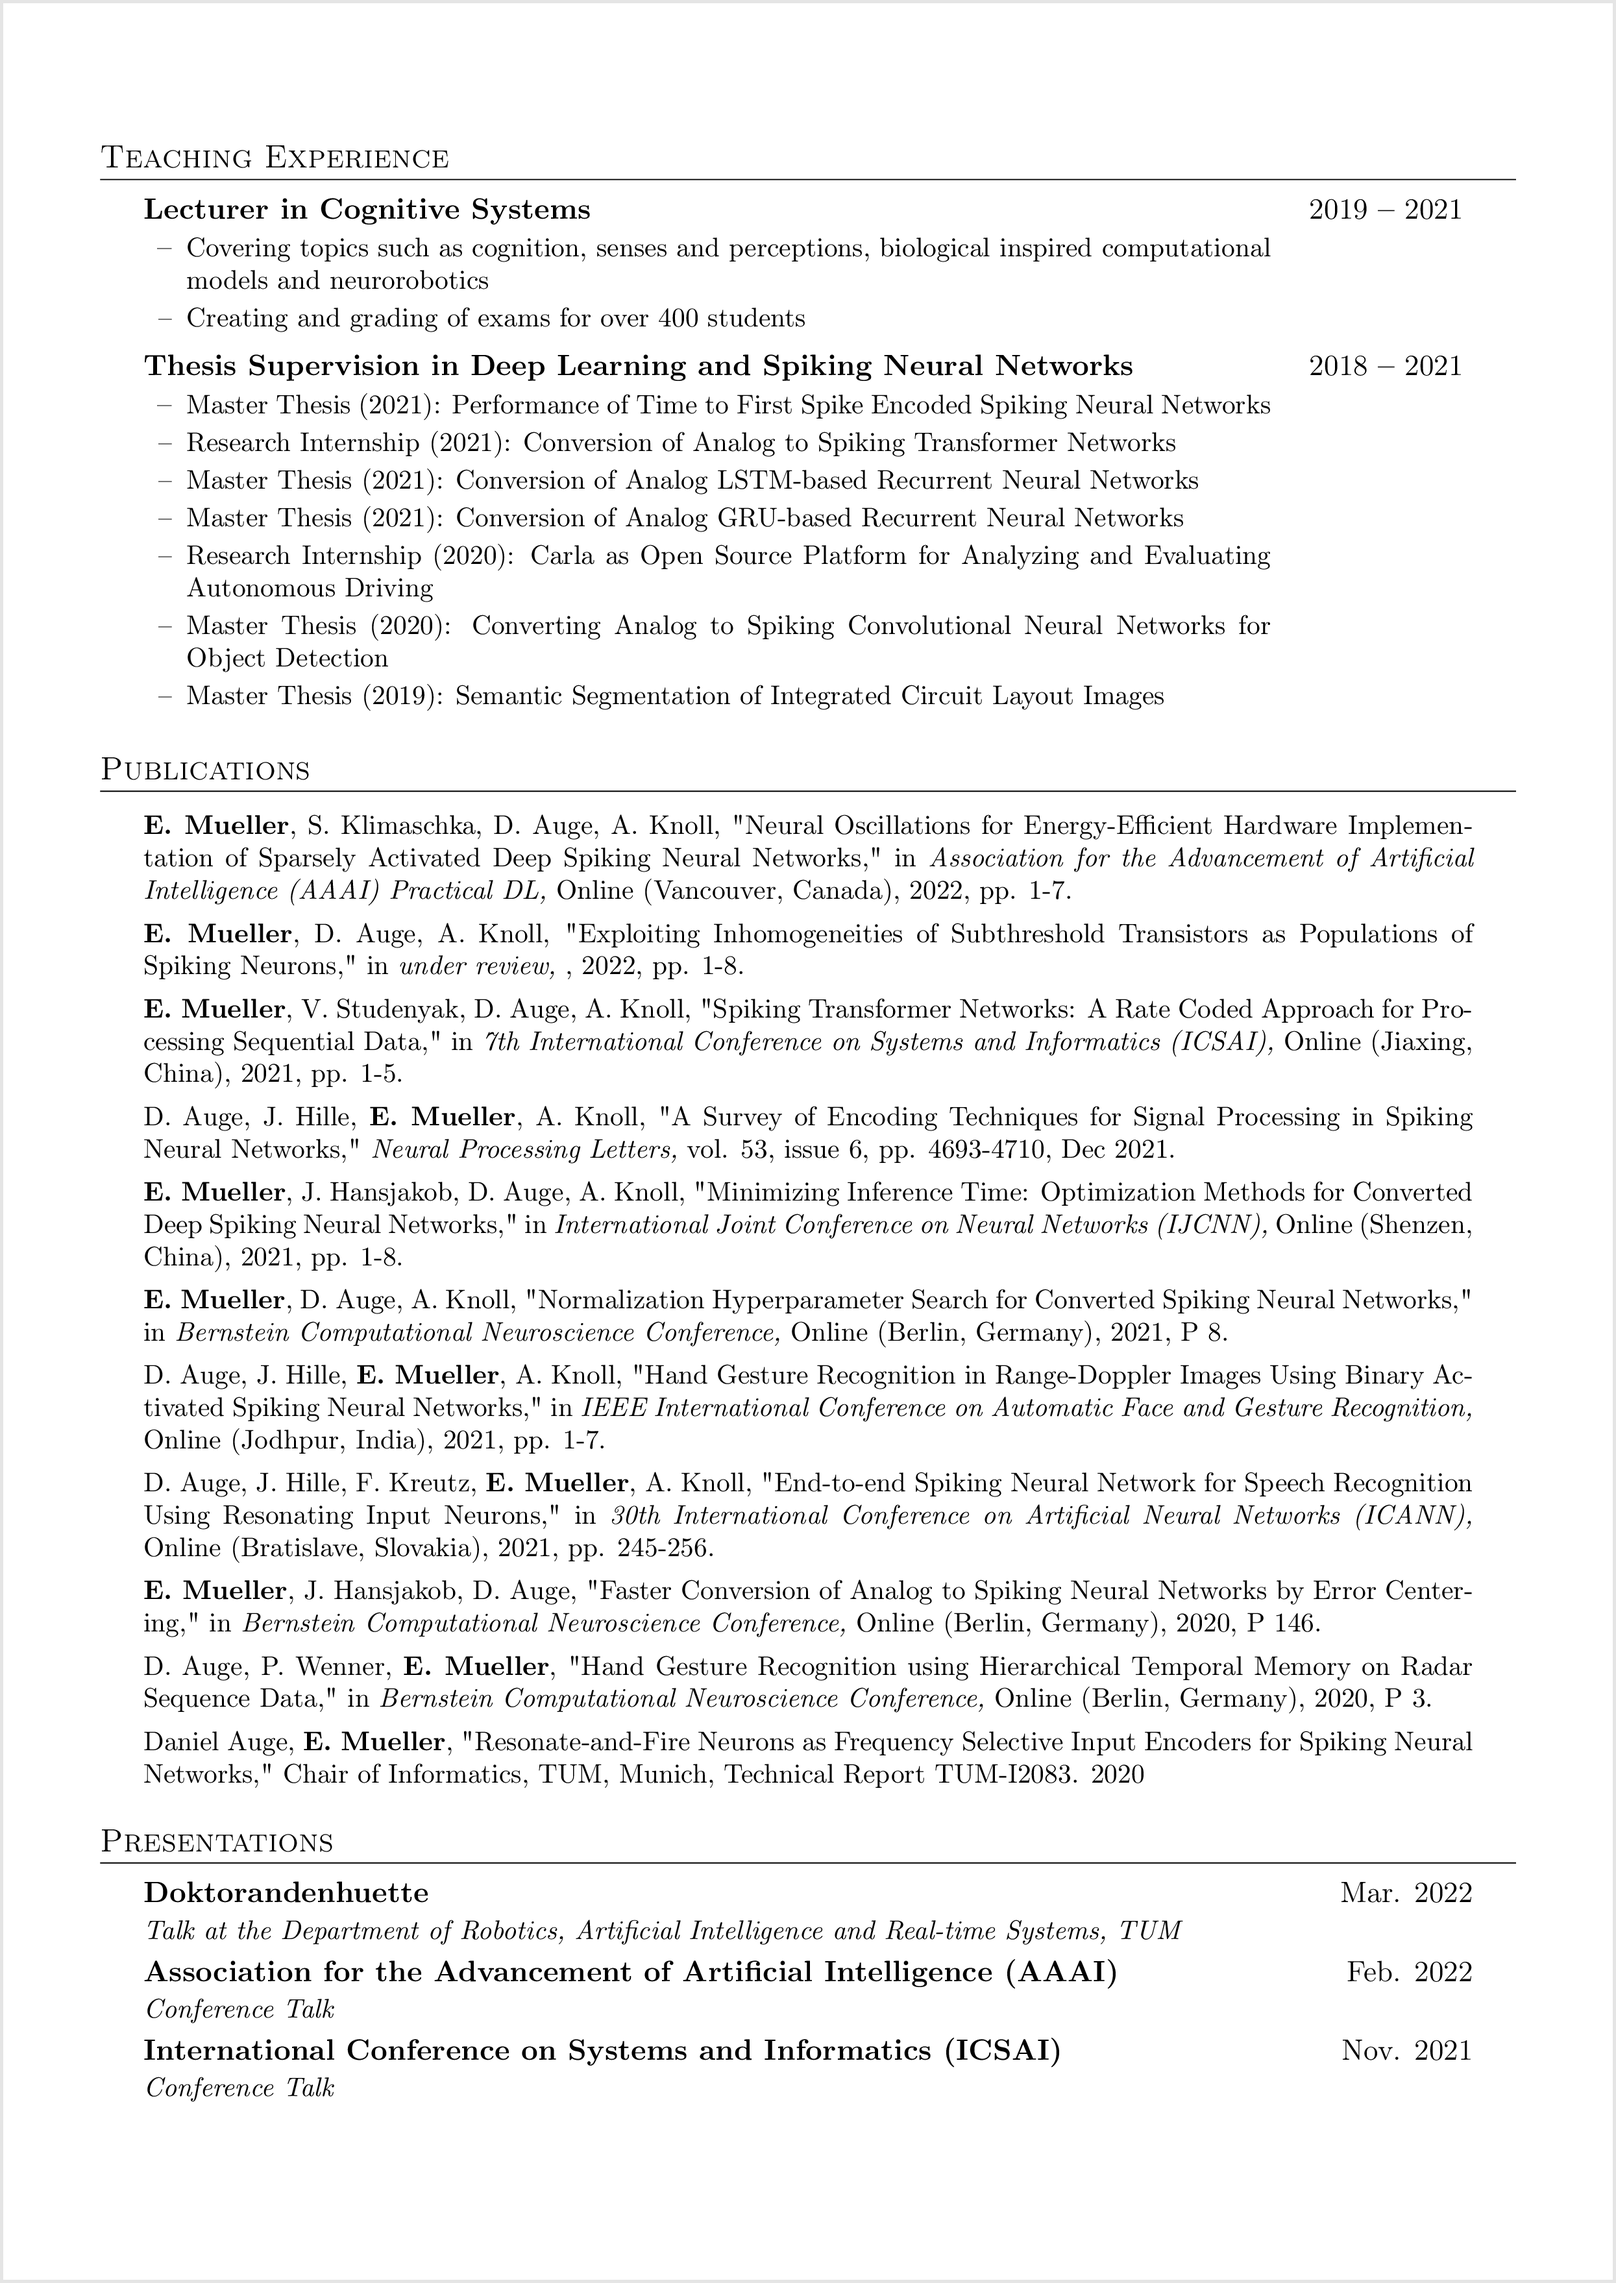
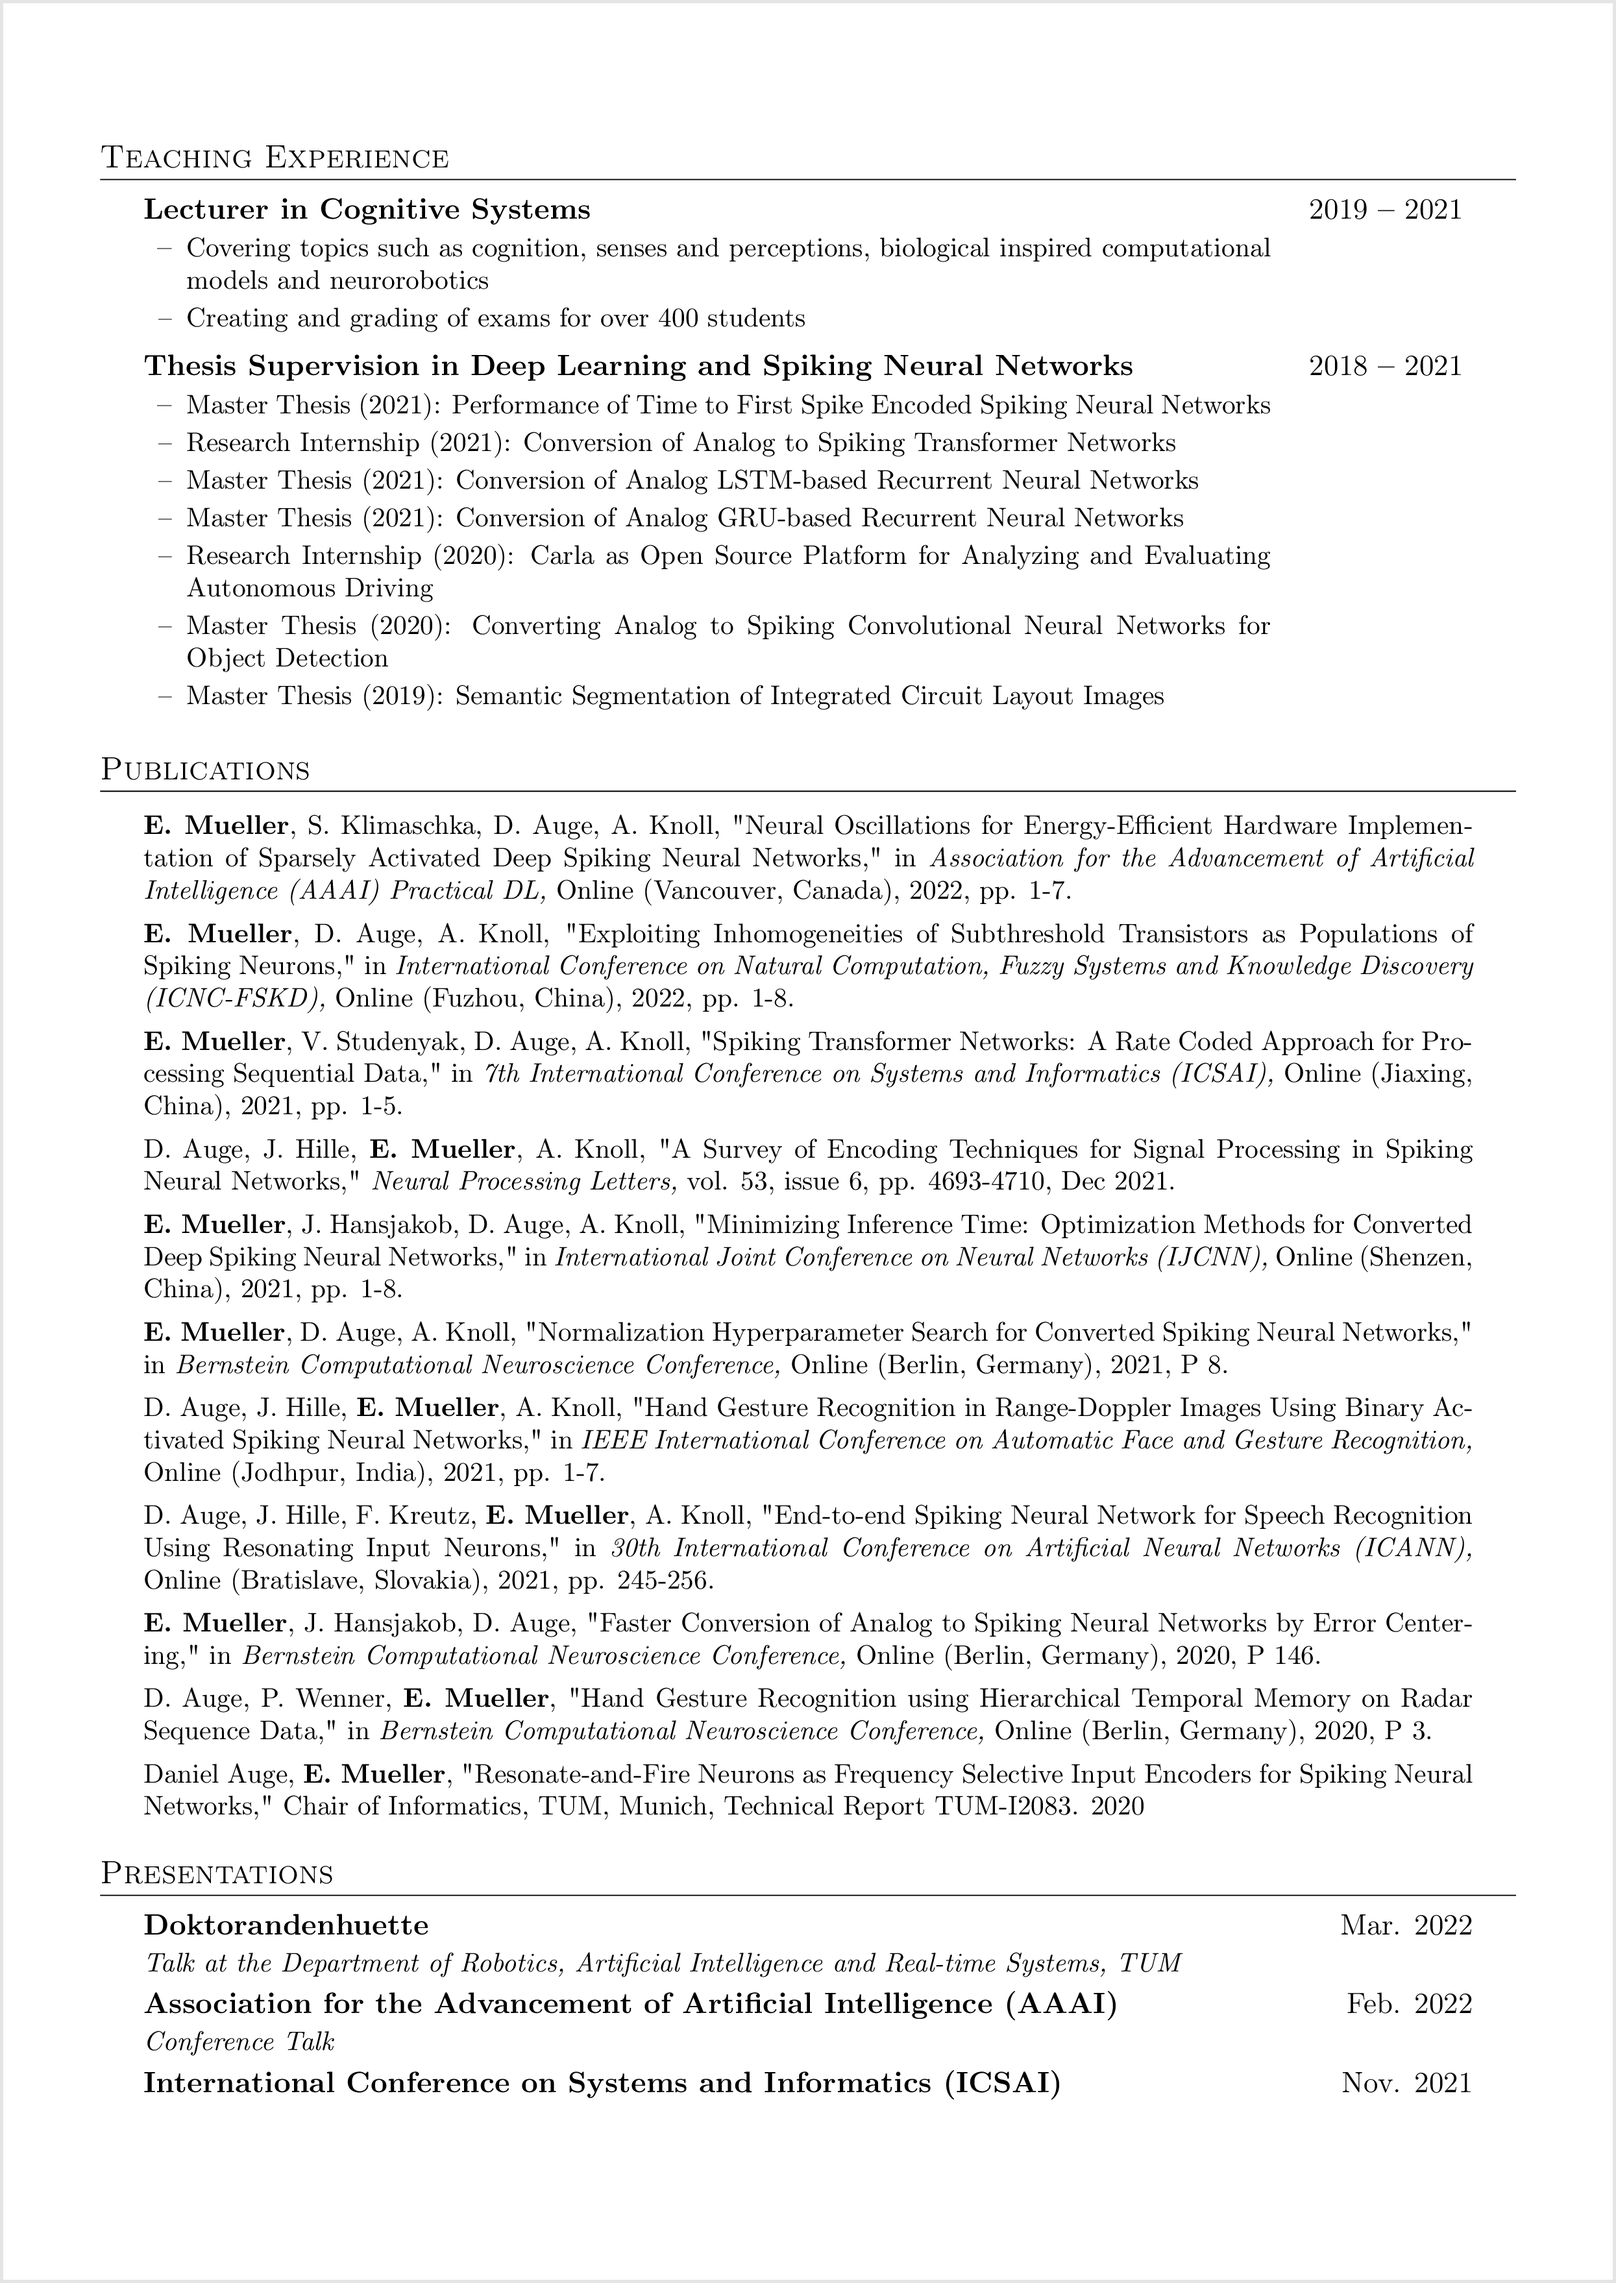
updated CV

Changed region(s): [[0.0618, 0.4028, 0.8968, 0.9295], [0.8349, 0.8056, 0.8968, 0.8985]]

diff --git a/cv.tex b/cv.tex
@@ -195,7 +195,7 @@
     \ieeeConference
         {\textbf{E. Mueller}, D. Auge, A. Knoll}
         {Exploiting Inhomogeneities of Subthreshold Transistors as Populations of Spiking Neurons}
-        {under review}{}{2022}{pp. 1-8}
+        {International Conference on Natural Computation, Fuzzy Systems and Knowledge Discovery (ICNC-FSKD)}{Online (Fuzhou, China)}{2022}{pp. 1-8}
     \ieeeConference
         {\textbf{E. Mueller}, V. Studenyak, D. Auge, A. Knoll}
         {Spiking Transformer Networks: A Rate Coded Approach for Processing Sequential Data}
